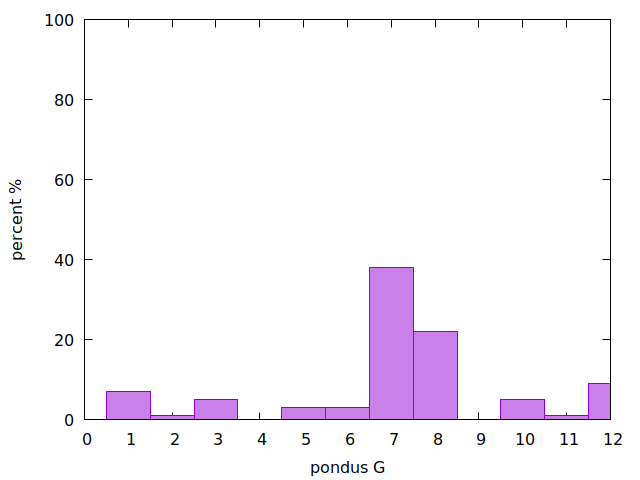
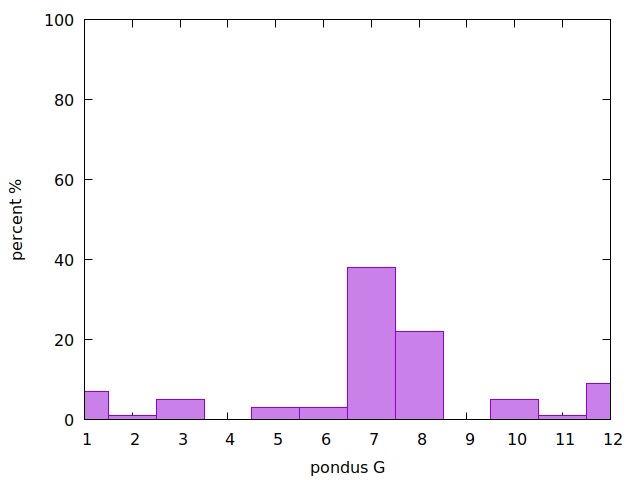
filtered Ag measurments out

diff --git a/Data/I-V/stat.py b/Data/I-V/stat.py
@@ -8,35 +8,37 @@ def get_sample_name():
     return name
 def get_conductance(filename):
     n_comments=40
-#    print(filename)
+    print(filename)
     for r in range(n_comments):
         try:
             df=pd.read_csv(filename,"\t",header=r,names=("V","I","i","J","j"))
         except:
             pass
         else:
-            break
-    i=0
-    j=-1
-    dv= (df["V"].iloc[j]-df["V"].iloc[i])
-    di= (df["I"].iloc[j]-df["I"].iloc[i])
-    R = dv/di
-    G = di/dv
-    return np.absolute(G)
+#            break
+            i=0     #first 
+            j=-1    #last
+            dv= (df["V"].iloc[j]-df["V"].iloc[i])
+            di= (df["I"].iloc[j]-df["I"].iloc[i])
+            R = dv/di
+            G = di/dv
+            return np.absolute(G)
+    return 1    # if error with file reading
 def get_header():
     return "exp\tconductance [S]"
 def get_Gheader():
-    return "exp\tcount"
+    return "exp\t%\tcount"
 def get_files(sample_name):
-    measurements = filter(lambda measurment: sample_name in measurment, os.listdir())
+    measurements = filter(lambda measurment: sample_name in measurment, os.listdir())   # only return files with sample number in name
+    measurements = filter(lambda measurment: "Ag" not    in measurment, measurements)   # don't include Ag files
     return sorted(list(measurements))
 def get_measurement():
     return 
 def make_stat(G):
-    mini=0
+    mini=1
     maxi=13
-    stat=np.repeat(0,maxi-mini)
-    stat_rel=np.repeat(0,maxi-mini)
+    stat=np.repeat(0,maxi)#-mini)
+    stat_rel=np.repeat(0,maxi)#-mini)
     n = len(G)
     for i in range(mini,maxi):
         #stat[i]=(np.absolute(np.around(np.log10(G))) == i).sum()
